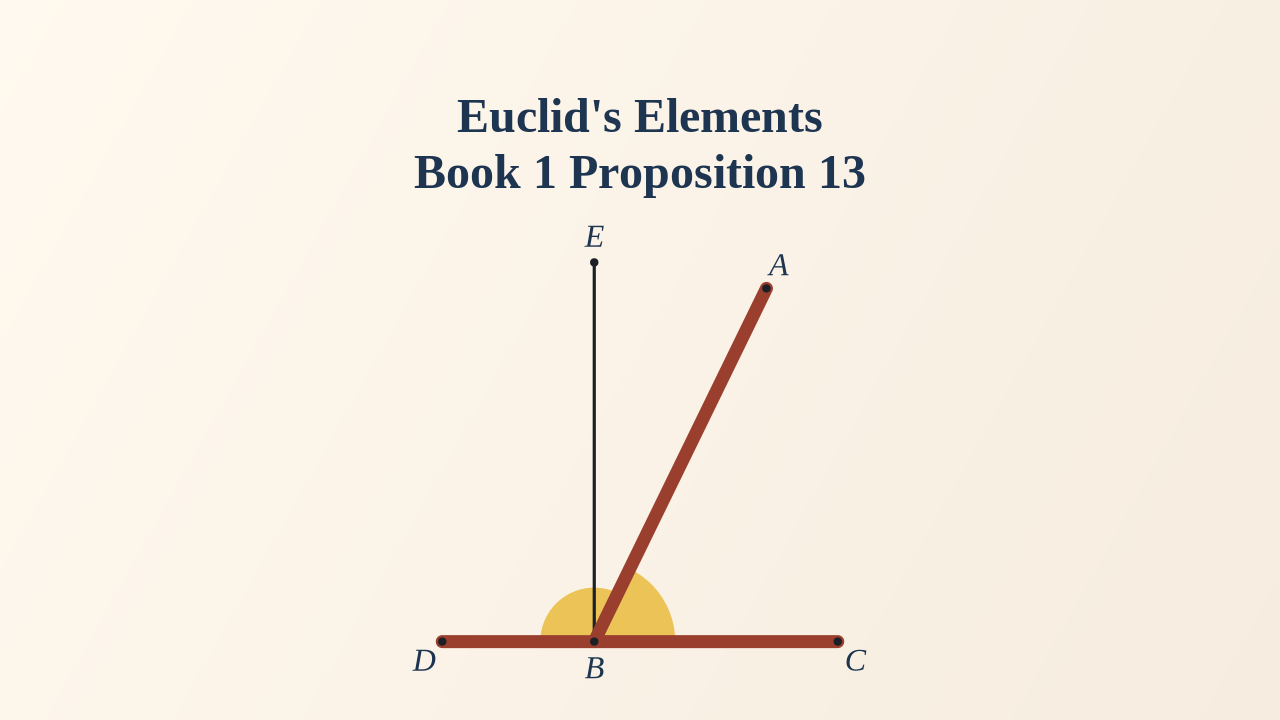
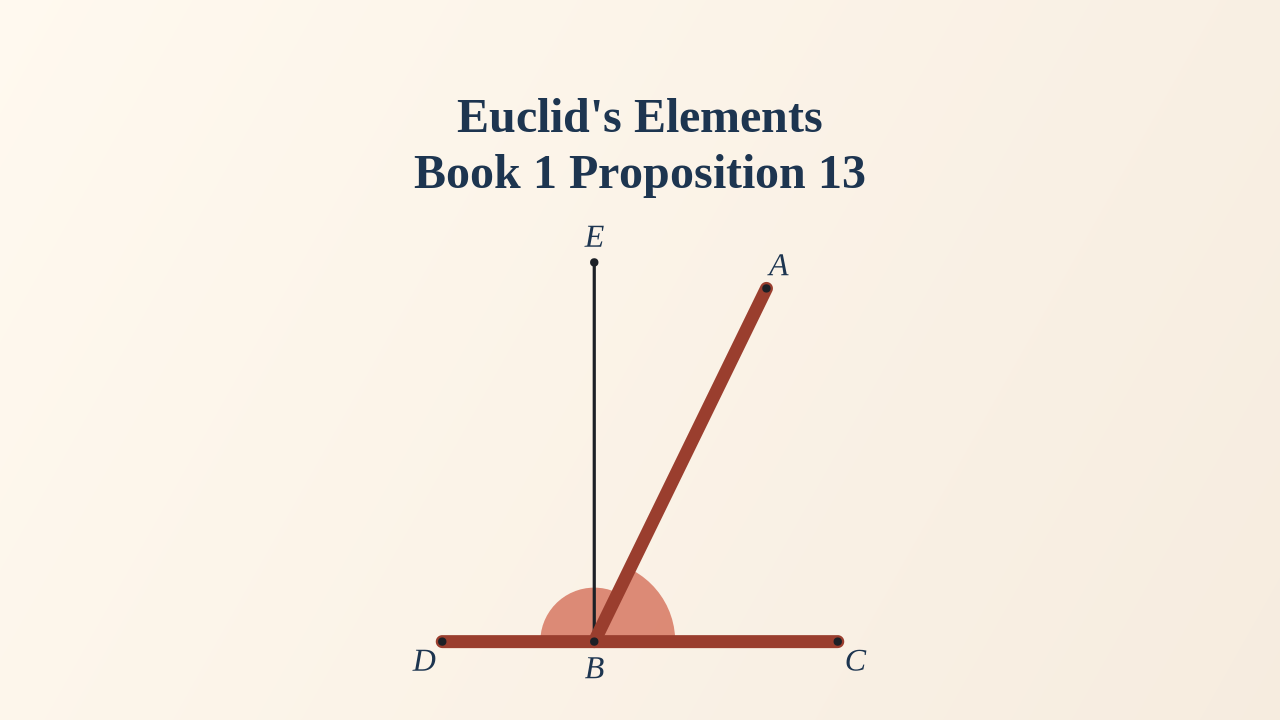
Use the default rose pie on the I.13 and I.14 thumbnails.
Yellow is the second set. These cards have one, so the angles take the rose at the I.42 card radius.

Changed region(s): [[0.4062, 0.7944, 0.5312, 0.8861]]

diff --git a/scripts/youtube_book1_thumbs.py b/scripts/youtube_book1_thumbs.py
@@ -89,9 +89,10 @@ right-angles, or angles whose sum is two right-angles. The enunciation
 names both lines. The card keeps the plate — BE is the right-angle
 drawn for the proof, not the subject — and marks those two lines and
 the angles they make. AB and CD take the brick. B lies on CD, so the
-stood-on line is the whole chord. ∠CBA and ∠ABD take one yellow pie,
-the I.42 card radius, so the mark matches that pie and does not shrink
-on this taller plate. ∠ABC takes half again that radius — a hair still
+stood-on line is the whole chord. ∠CBA and ∠ABD take one rose pie,
+the default, at the I.42 card radius, so the mark matches that pie and
+does not shrink on this taller plate. Yellow is the second set, and
+this card has one. ∠ABC takes half again that radius — a hair still
 reads as one size, and the acute corner would otherwise read as the
 lesser mark. A wash of the half-plane would light a region the
 proposition does not claim. I.14 is the converse: adjacent angles equal
@@ -99,7 +100,7 @@ to two right-angles, so the two straight-lines are straight-on. The card
 keeps the plate — BE is the reductio, not the subject — and marks the
 three lines the enunciation names and the adjacent angles. BC and BD,
 the two that are straight-on, and AB, the line they stand on, take the
-brick. ∠ABC and ∠ABD take one yellow pie, the I.42 card
+brick. ∠ABC and ∠ABD take one rose pie, the I.42 card
 radius, as on I.13. ∠ABD takes half again that radius, so the larger
 mark sits on the right, as on I.13.
 A wash has no interior.
@@ -366,17 +367,19 @@ ANGLE_MARK: dict[int, list[tuple[tuple[int, int, int], float | None]]] = {
     # that square, not a fraction of the arm. A shared plate radius
     # shrinks on this larger plate. Both lines are the brick (LINES).
     12: [(PIE_ALT, None)],
-    # ∠CBA and ∠ABD, the angles the stood line makes. One set, the I.42
-    # card size: same pixel radius as that pie, not a fraction of the arm.
-    # A shared plate radius shrinks on this taller plate. ∠ABC takes half
+    # ∠CBA and ∠ABD, the angles the stood line makes. One set, the default
+    # rose at the I.42 card size: same pixel radius as that pie, not a
+    # fraction of the arm. A shared plate radius shrinks on this taller
+    # plate. Yellow is the second set; this card has one. ∠ABC takes half
     # again (ANGLE_HAIR) so the two radii read apart, and so the acute
     # corner is not the lesser mark. Both lines are the brick (LINES).
-    13: [(PIE, None)],
+    13: [(PIE_ALT, None)],
     # ∠ABC and ∠ABD, the adjacent angles equal to two right-angles. One
-    # set, the I.42 card size, as on I.13. ∠ABD takes half again
-    # (ANGLE_HAIR) so the larger mark sits on the right, as on I.13. The
-    # two lines that are straight-on are the brick (LINES). BE is the reductio.
-    14: [(PIE, None)],
+    # set, the default rose at the I.42 card size, as on I.13. ∠ABD takes
+    # half again (ANGLE_HAIR) so the larger mark sits on the right, as on
+    # I.13. The two lines that are straight-on are the brick (LINES). BE
+    # is the reductio.
+    14: [(PIE_ALT, None)],
     # I.15 has two equalities. Both sets take the default pie, the I.42
     # card radius, so neither pair reads as the lesser mark. One pair is
     # the rose. The other is yellow, so the two equalities do not read as
